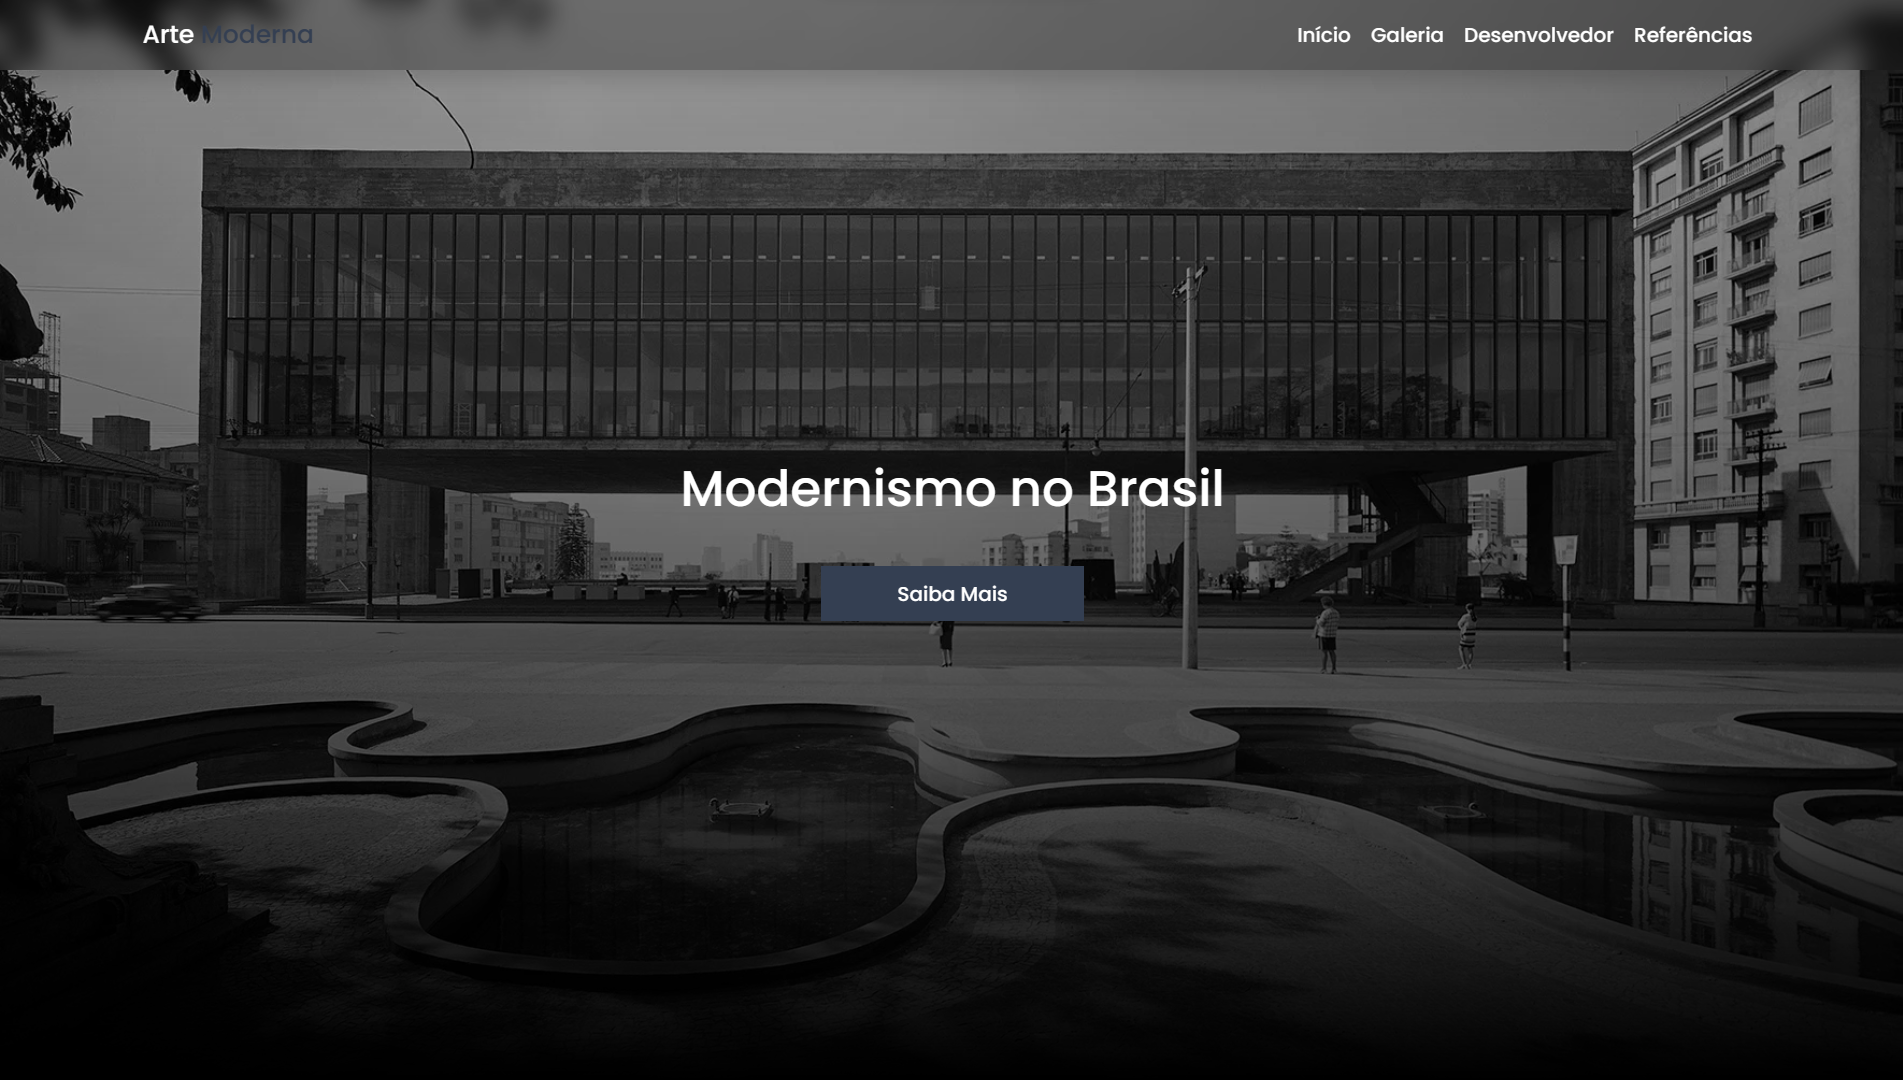
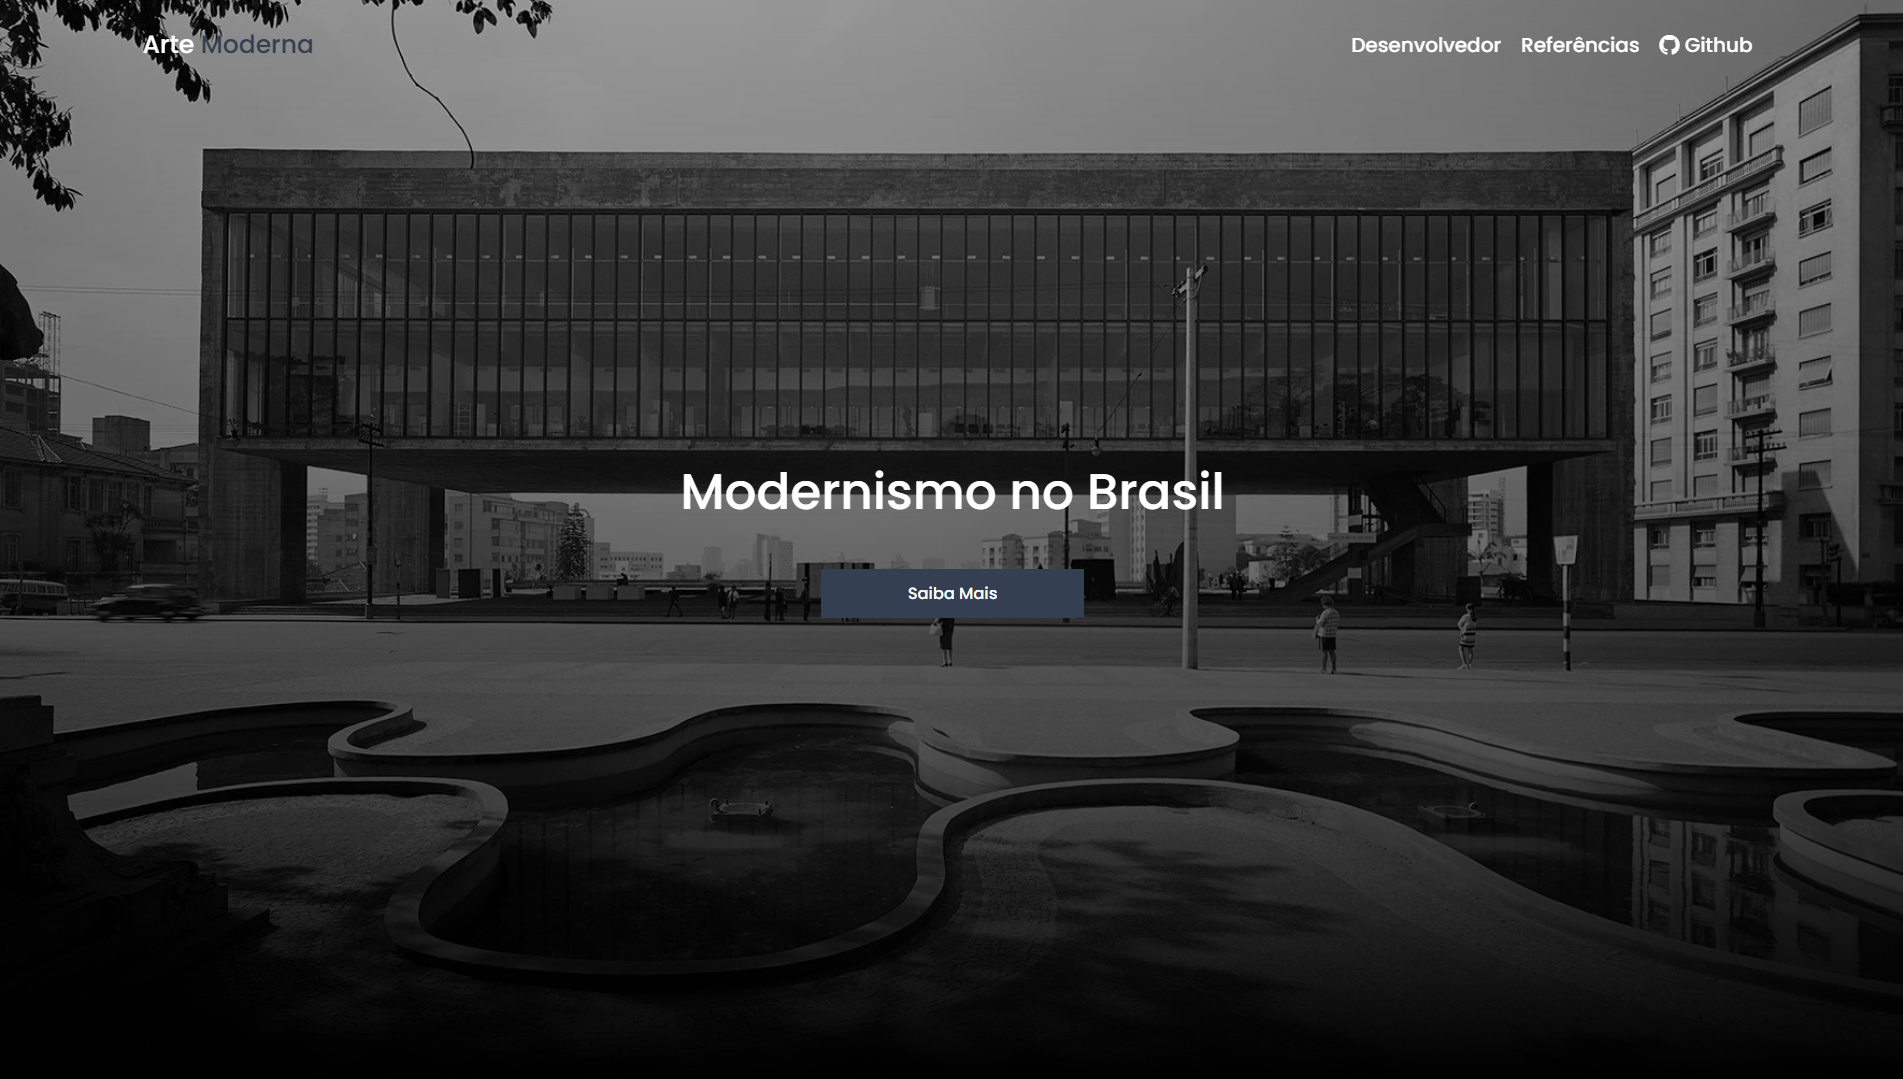
Update_2024

Changed region(s): [[0.0, 0.0, 1.0, 0.0918], [0.372, 0.4282, 0.6511, 0.4893], [0.4341, 0.5199, 0.5271, 0.5811]]

diff --git a/index.html b/index.html
@@ -8,32 +8,30 @@
         <title>Arte Moderna</title>
         <script src="https://use.fontawesome.com/releases/v6.1.0/js/all.js" crossorigin="anonymous"></script>
         <link href="https://cdn.jsdelivr.net/npm/bootstrap@5.3.2/dist/css/bootstrap.min.css" rel="stylesheet" integrity="sha384-T3c6CoIi6uLrA9TneNEoa7RxnatzjcDSCmG1MXxSR1GAsXEV/Dwwykc2MPK8M2HN" crossorigin="anonymous">
-        <link rel="stylesheet" href="assets/css/estilo.css?1">
+        <link rel="stylesheet" href="assets/css/estilo.css?19">
+        <link rel="stylesheet" href="https://cdn.jsdelivr.net/npm/bootstrap-icons@1.11.3/font/bootstrap-icons.min.css">
         <!-- Favicon-->
         <link rel="icon" type="image/x-icon" href="assets/img/icon.png" />
     </head>
     <body>
 
         <!-- Menu -->
-        <nav id="mainNav" class="navbar navbar-expand-lg shadow fixed-top">
+        <nav class="navbar navbar-expand-lg fixed-top py-3">
             <div class="container">
             <a class="navbar-brand" href="index.html">Arte <span style="color: #343F52;">Moderna</span></a>
             <button style="font-size: 25px; color: transparent; border: none;" class="navbar-toggler" type="button" data-bs-toggle="collapse" data-bs-target="#navbarResponsive" aria-controls="navbarResponsive" aria-expanded="false" aria-label="Toggle navigation">
-                <i class="fas fa-bars" style="color:#fff; font-size:28px;"></i>             
+                <i class="fas fa-bars" id="box_navbar" ></i>             
             </button>
                 <div class="collapse navbar-collapse" id="navbarResponsive">
                     <ul class="navbar-nav ms-auto">
-                        <li class="nav-item">
-                            <a class="nav-link" href="index.html">Início</a>
-                        </li>
-                        <li class="nav-item">
-                            <a class="nav-link" href="galeria.html">Galeria</a>
-                        </li>
                         <li class="nav-item">
                             <a class="nav-link" href="https://gabriel-antonio-souto.github.io/meu_portfolio/">Desenvolvedor</a>
                         </li>
                         <li class="nav-item">
                             <a class="nav-link" href="#" data-bs-toggle="modal" data-bs-target="#modal7">Referências</a>
+                        </li>
+                        <li class="nav-item">
+                            <a class="nav-link" href="https://github.com/Gabriel-Antonio-Souto/arte_moderna"><i class="bi bi-github"></i> Github</a>
                         </li>
                     </ul>
                 </div> 
@@ -322,37 +320,6 @@
         </section>
 
         <footer>
-            <section id="rodape">
-                <div class="main">
-                    <div class="rodape">
-                        <div class="cartao">
-                            <h1>Mapa do site</h1>
-                            <a href="index.html">Início</a>
-                            <a href="galeria.html">Galeria</a>
-                            <a href="https://gabriel-antonio-souto.github.io/meu_portfolio/">Desenvolvedor</a>
-                            <a href="#" data-bs-toggle="modal" data-bs-target="#modal7">Referências</a>
-                            
-                        </div>
-                    </div>
-                    <div class="rodape">
-                        <div class="cartao">
-                            <h1>Github</h1>
-                            <a href="https://github.com/Gabriel-Antonio-Souto/arte_moderna" id="git">
-                                <svg xmlns="http://www.w3.org/2000/svg" width="50" height="50" fill="currentColor" class="bi bi-github" viewBox="0 0 16 16">
-                                    <path d="M8 0C3.58 0 0 3.58 0 8c0 3.54 2.29 6.53 5.47 7.59.4.07.55-.17.55-.38 0-.19-.01-.82-.01-1.49-2.01.37-2.53-.49-2.69-.94-.09-.23-.48-.94-.82-1.13-.28-.15-.68-.52-.01-.53.63-.01 1.08.58 1.23.82.72 1.21 1.87.87 2.33.66.07-.52.28-.87.51-1.07-1.78-.2-3.64-.89-3.64-3.95 0-.87.31-1.59.82-2.15-.08-.2-.36-1.02.08-2.12 0 0 .67-.21 2.2.82.64-.18 1.32-.27 2-.27.68 0 1.36.09 2 .27 1.53-1.04 2.2-.82 2.2-.82.44 1.1.16 1.92.08 2.12.51.56.82 1.27.82 2.15 0 3.07-1.87 3.75-3.65 3.95.29.25.54.73.54 1.48 0 1.07-.01 1.93-.01 2.2 0 .21.15.46.55.38A8.012 8.012 0 0 0 16 8c0-4.42-3.58-8-8-8z"/>
-                                </svg>
-                            </a>
-                            
-                        </div>
-                    </div>
-                    <div class="rodape">
-                        <div class="cartao">
-                            <h1>Arte Moderna</h1>
-                            <p>Site dedicado a falar sobre o modernismo no Brasil.</p>
-                        </div>
-                    </div>
-                </div>
-            </section>
             <section id="copyright">
                 <p>Copyright © Arte Moderna 2024</p>
             </section>
@@ -730,5 +697,16 @@
 
         <script src="https://cdn.jsdelivr.net/npm/bootstrap@5.3.2/dist/js/bootstrap.bundle.min.js" integrity="sha384-C6RzsynM9kWDrMNeT87bh95OGNyZPhcTNXj1NW7RuBCsyN/o0jlpcV8Qyq46cDfL" crossorigin="anonymous"></script>
         <script src="https://code.jquery.com/jquery-3.7.1.min.js"></script>
+        <script>
+            $(function () {
+                $(window).on('scroll', function () {
+                    if ( $(window).scrollTop() > 10 ) {
+                        $('.navbar').addClass('active');
+                    } else {
+                        $('.navbar').removeClass('active');
+                    }
+                });
+            });
+        </script>
     </body>
 </html>

diff --git a/assets/css/estilo.css b/assets/css/estilo.css
@@ -68,21 +68,82 @@ body::-webkit-scrollbar-thumb {
     color: white;
 }
 
-#mainNav{
-    background: rgba(0, 0, 0, 0.29);
-    backdrop-filter: blur(10.5px);
-    -webkit-backdrop-filter: blur(10.5px);
-}
-#mainNav a{
-    color: white;
-}
 .btn_masthead{
     color: white;
     background-color: #343F52;
     width: 210px;
     padding: 10px;
     margin-top: 30px;
+    font-size: small;
+   
 }
+
+
+/*Menu*/
+.navbar {
+    transition: all 0.4s;
+}
+
+.navbar .nav-link {
+    color: #fff;
+}
+
+.navbar .nav-link:hover,
+.navbar .nav-link:focus {
+    color: #fff;
+    text-decoration: none;
+}
+
+.navbar .navbar-brand {
+    color: #fff;
+}
+
+.navbar.active {
+    background: rgba(255, 255, 255, 0.75);
+    backdrop-filter: blur(10.5px);
+    -webkit-backdrop-filter: blur(10.5px);
+    box-shadow: 1px 2px 10px rgba(0, 0, 0, 0.1);
+}
+
+.navbar #box_navbar{
+    color:#fff;
+    font-size:28px;
+}
+
+.navbar.active #box_navbar{
+    color:#000000;
+    font-size:28px;
+}
+
+.navbar.active .nav-link {
+    color: #555;
+}
+
+.navbar.active .nav-link:hover,
+.navbar.active .nav-link:focus {
+    color: #555;
+    text-decoration: none;
+}
+
+.navbar.active .navbar-brand {
+    color: #555;
+}
+
+
+/* Change navbar styling on small viewports */
+@media (max-width: 991.98px) {
+    .navbar {
+        background: rgba(0, 0, 0, 0.29);
+        backdrop-filter: blur(10.5px);
+        -webkit-backdrop-filter: blur(10.5px);
+    
+    }
+
+    .navbar .navbar-brand, .navbar .nav-link {
+        color: white;
+    }
+}
+
 
 /* sobre */
 #sobre .main{
@@ -750,45 +811,4 @@ body::-webkit-scrollbar-thumb {
         margin-left: 0;
         margin-right: 0;
     } 
-}
-
-/* Galeria */
-
-#container{
-    width: 1400px;
-    margin: 20px auto;
-    columns: 4;
-    column-gap: 20px;
-}
-
-#container .box { 
-    width: 100%;
-    margin-bottom: 20px;
-    break-inside: avoid;
-
-}
-
-#container .box img{ 
-    max-width: 100%;
-    border-radius: 15px;
-}
-
-@media (max-width: 1200px){
-    #container{
-        width: calc(100% - 40px);
-        columns: 3;
-    }
-}
-
-@media (max-width: 768px){
-    #container{
-        width: calc(100% - 40px);
-        columns: 2;
-    }
-}
-
-@media (max-width: 480px){
-    #container{
-        columns: 1;
-    }
 }
